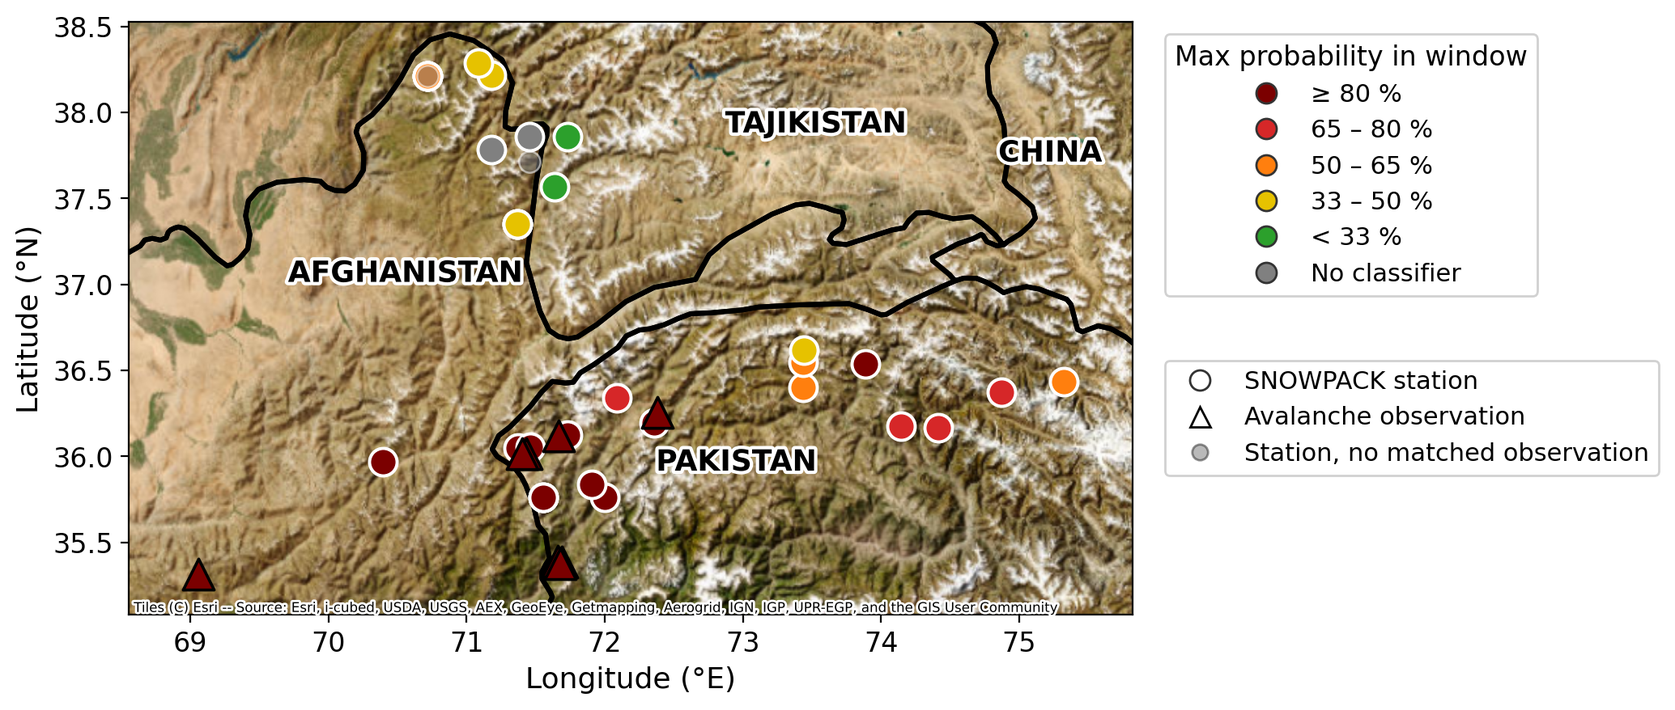
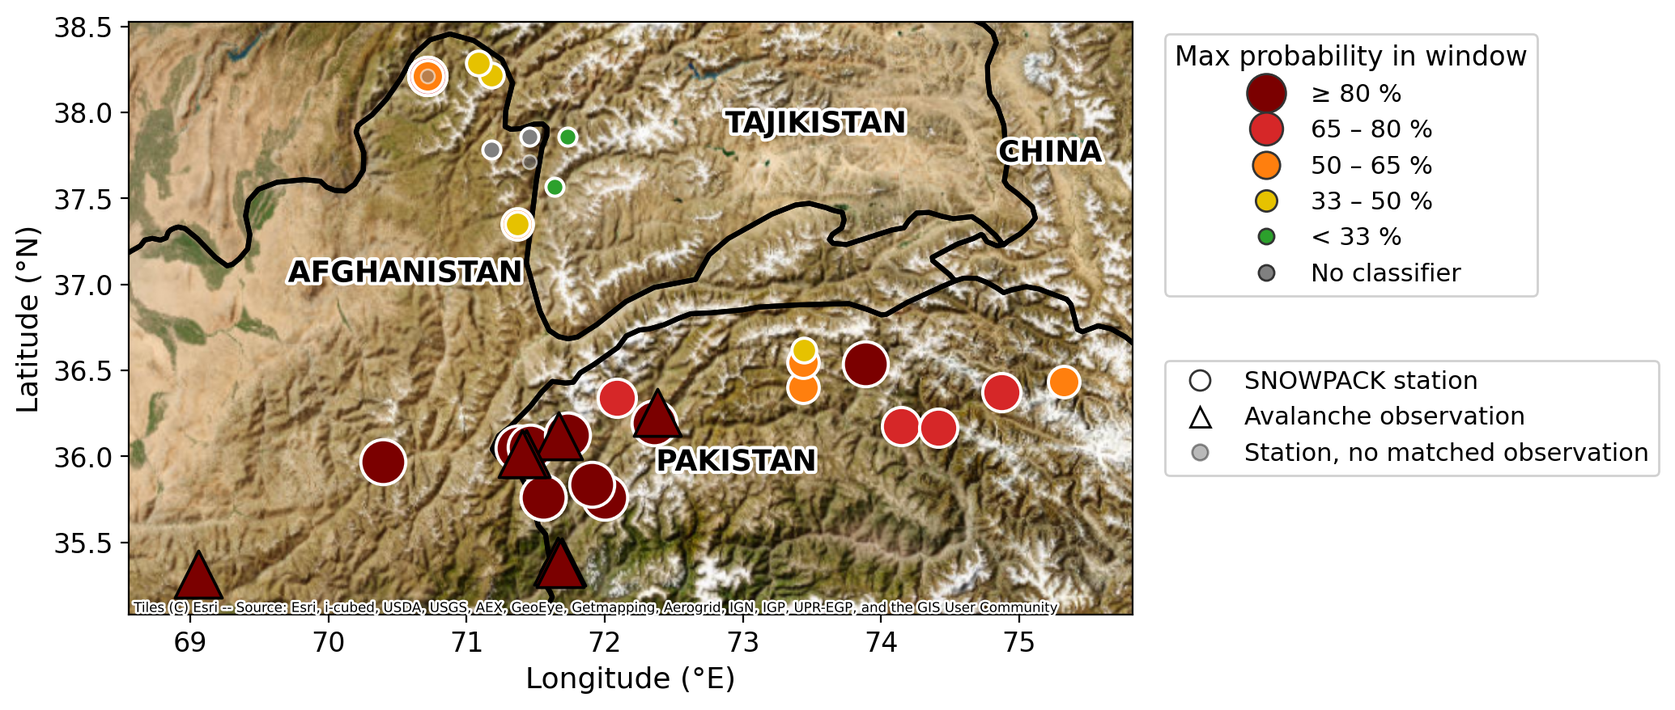
Revise ISSW paper, template class, and figures; add submission .tex

diff --git a/docs/paper/137_Itai Sheleg_Forecasting Avalanches in Data-Sparse Central Asia using Snowpack and Weather Modeling with Avalanche Observations.tex b/docs/paper/137_Itai Sheleg_Forecasting Avalanches in Data-Sparse Central Asia using Snowpack and Weather Modeling with Avalanche Observations.tex
@@ -1,0 +1,302 @@
+\DocumentMetadata{
+  lang = en,
+  tagging = on,
+  pdfstandard = ua-2
+}
+%%%%%%%%%%%%%%%%%%%%%%%%%%%%%%%%%%%%%%%%%%%%%%%%%%
+%
+% LaTeX Template for extended abstracts for the
+% ISSW 2026 in Whistler, Canada.  
+%  To meet accessibility Requirements this is a completly new template. The .cls file is therefore new and in the .tex file you wil find some slight adaptions of how to handle figures and tables 
+% Cheers Machtl 
+%
+%%%%%%%%%%%%%%%%%%%%%%%%%%%%%%%%%%%%%%%%%%%%%%%%%%
+%               * INSTRUCTIONS *
+%
+%           **** VERY IMPORTANT ****
+%
+%
+%  1 - Rename this file
+%  
+%  2 - Write your contribution
+%
+%  3 - Compile with: LuaLaTeX, Biber, LuaLaTeX, LuaLaTeX --> PDF/UA-2-compliant structure
+%
+%  4 - Follow instructions below and come to Whistler
+%%%%%%%%%%%%%%%%%%%%%%%%%%%%%%%%%%%%%%%%%%%%%%%%%%
+
+\documentclass{issw}
+
+\usepackage[base]{babel}
+\usepackage{graphicx}
+\usepackage{amsmath}
+\usepackage{booktabs}
+\usepackage{tagpdf}
+\tagpdfsetup{
+  activate-all            = true,
+  math/mathml/luamml/load = true,
+  math/alt/use            = true,
+  table/header-rows       = {1}
+}
+
+\addbibresource{references.bib}
+
+% skip= pins the package to issw.cls's own \parskip (4pt plus 1pt minus 1pt);
+% the package's default (.5\baselineskip plus 2pt) would widen every paragraph
+% gap beyond the template. Loading it still gives the tight list/bibliography
+% spacing (\topsep and \itemsep zeroed) that the class alone does not set.
+\usepackage[skip=4pt plus 1pt minus 1pt]{parskip}
+
+% Consistent feature-name formatting (matches Table 1 everywhere it's used)
+\newcommand{\HS}{\mathrm{HS}}
+\newcommand{\HNtf}{\mathrm{HN24}}
+\newcommand{\TAmax}{TA_{\mathrm{max}}}
+\newcommand{\Snmin}{Sn38_{\mathrm{min}}}
+\newcommand{\dlwl}{\texttt{depth\_lower\_wl}}
+
+% ================= TITLE, AUTHOR==================================================
+\title{FORECASTING AVALANCHES IN DATA-SPARSE CENTRAL ASIA USING \\
+SNOWPACK AND WEATHER MODELING WITH AVALANCHE OBSERVATIONS}
+
+\author[1]{Itai Sheleg\corref{complete\_address}}
+\author[2]{Doug Chabot}
+\author[3]{John Snook}
+\author[1]{Jaime Peters}
+\author[4]{Walter Steinkogler}
+\author[3]{Ron Simenhois}
+
+
+
+\address[1]{Lake County High School, Leadville, CO, USA}
+\address[2]{Latok, LLC, Bozeman, MT, USA}
+\address[3]{Colorado Avalanche Information Center, CO, USA}
+\address[4]{Wyssen Avalanche Control AG, Switzerland}
+
+\cortext[complete\_address]{
+Itai Sheleg, Lake County High School, \\
+Leadville, CO, USA,\\
+email: itai.sheleg@gmail.com}
+% ===================================================================
+
+\begin{document}
+\pagestyle{empty}
+
+% ==================== ABSTRACT ===============================================
+\begin{abstract}
+Avalanches in Central Asia, particularly in Afghanistan, Tajikistan, and Pakistan, are a persistent hazard, causing hundreds of fatalities in severe winters and routinely destroying homes, infrastructure, and livestock essential for survival. To address this risk, in 2015, Aga Khan Agency for Habitat established a remote avalanche forecasting program supported by external expertise.
+Following its implementation, it became clear that a primary constraint on forecasting capability is the limited availability of snowpack, weather, and avalanche observations, driven by both geographic remoteness and government restrictions on data sharing.
+We address this gap by developing a proof-of-concept framework that fuses heterogeneous, publicly available data sources to support avalanche forecasting in data-sparse regions. Specifically, we combine numerical weather prediction (NWP)-forced SNOWPACK simulations (4 km grid spacing) with opportunistically extracted avalanche observations from social media posts shared by local residents. This approach treats informal reports as weakly labeled observations, enabling the reconstruction of avalanche occurrence in the absence of systematic records.
+We compiled 69 valley-floor avalanche observations from social media and AKAH field logs across two winters, and matched each to the nearest SNOWPACK station sharing its predominant aspect, reconstructing the associated meteorological and snowpack conditions at 30 virtual stations. Five daily variables drive the model: total snow depth, 24-hour new snow, maximum air temperature ($\TAmax$), the whole-profile minimum natural stability index ($Sn38$), and the burial depth of the weakest layer. To distinguish avalanche from non-avalanche days, we fit a hierarchical Bayesian logistic regression that gives each station its own baseline avalanche rate while sharing the influence of the five variables across the network.
+Trained on 2024–2025 and evaluated on the unseen 2025–2026 season, the model ranks avalanche days above quiet ones (AUC-ROC 0.715), and \textit{its warnings are about seven times more precise than chance.} Total snow depth carries the most weight, followed by weak-layer burial depth, which lowers risk as it deepens. New snow and $\TAmax$ both raise risk, with warming weighing about as much as new-snow loading, suggesting that warm, likely rain-influenced storms are at least as important as loading in driving these events. \textit{Detection climbs with a station's accumulated history, from 56\% with one recorded avalanche to 100\% with three, counting events from any season rather than only the current winter.} At a fixed threshold, false alarms do not fall along that same curve, though four of the stations already meet an operational standard of roughly one false alarm per month.
+This work incorporates a novel data-fusion and weak-supervision framework for avalanche forecasting, integrating NWP-driven snowpack modeling with opportunistic, publicly sourced observations. However, this framework is constrained by a limited event dataset and a model chain that lacks rigorous, component-wise validation, introducing uncertainty in both inputs and predictions. As such, the framework is best interpreted as a decision-support tool rather than a fully autonomous forecasting system. Coupled with expert validation and interpretation, it provides a scalable pathway for developing operational guidance in regions where conventional data streams are sparse or unavailable.
+\end{abstract}
+
+\begin{keyword}
+Avalanche Forecasting, SNOWPACK, Bayesian Modeling, Central Asia
+\end{keyword}
+
+\maketitle
+% ===================================================================
+
+
+\section{INTRODUCTION}
+Avalanches are a severe and recurring hazard across the Hindu Kush, Pamir, Karakoram, and western Himalaya. A single 2012 avalanche cycle in Afghanistan, Pakistan, and Tajikistan killed more than 100 people \parencite{ChabotKaba2016}, motivating the Aga Khan Development Network and Aga Khan Agency for Habitat (AKAH) to build a community-based avalanche warning system around village-run weather monitoring posts, coordinated evacuation planning, and trained search-and-rescue teams. When a comparably severe cycle struck the same region in February 2023, 38 people died \parencite{Chabot2024}, a fraction of the 2012 toll attributed to the network built in the intervening years. Providing operational avalanche forecasts is a central component of these programs, yet the observational data that underpin modern forecasting are largely unavailable across the region.
+Modern avalanche forecasting relies on dense observational networks, including automated weather stations, snowpack observations, and systematic avalanche records. Across much of Central Asia, this infrastructure is largely absent, and the challenge has three components. Field snowpack observations are essentially absent. Automated weather stations are rare at avalanche-relevant elevations, and where they exist, cost constraints and government restrictions on cross-border data sharing often prevent their use in regional forecasting \parencite{Chabot2024}. Systematic records of avalanche occurrence needed to establish historical baselines and evaluate model performance are similarly lacking. Each limitation would significantly constrain an operational forecasting program; together, they render conventional forecasting approaches impractical.
+We combine three globally available data sources: numerical weather prediction (NWP) model output, satellite imagery, and avalanche events identified from social media and local news reports to test whether these limitations can be substantially mitigated. Systematic records of avalanche events in this region exist almost entirely outside peer-reviewed literature, in technical reports, news, and social media \parencite{Acharya2023}, making these sources not merely supplementary but the primary available record. This paper focuses on the NWP-driven snowpack modeling and observation components of the framework; satellite-derived inputs are part of the broader system architecture but fall outside the present evaluation.
+This paper presents the system architecture and a pilot deployment in Afghanistan, Pakistan, and Tajikistan. The operational network runs 1155 virtual SNOWPACK stations; the evaluation reported here uses the 30 stations matched to 69 avalanche observations compiled from AKAH's structured observation logs and social media reports. We evaluate how well the model separates avalanche days from quiet ones, whether that skill holds up in a season it has never seen, and whether the weights it learns are physically coherent, then discuss the steps required to transition the framework toward reliable operational forecasting in data-sparse regions worldwide.
+
+\section{DATA}
+\subsection{NWP Forcing and SNOWPACK Simulations}
+We implemented the Weather Research and Forecasting model (WRF) \parencite{SkamarockKlemp2008} over Central Asia in 2022 to produce winter weather forecasts. Initial and lateral boundary conditions come from the US National Weather Service Global Forecast System (GFS). We run a nested grid, a 12-km outer domain with a 4-km inner nest, and put out 7-day forecasts twice a day. Post-processing turns that into standard parameter imagery and point forecasts on a regional website. The first winter told us the forecasts were worth building on.
+The following season we added SNOWPACK \parencite{Lehning2002,Morin2020}, following the approach the Colorado Avalanche Information Center developed \parencite{SnookEtAl2022,Snook2016}. WRF writes meteorological output straight into SNOWPACK, which simulates layer-by-layer snowpack evolution at each grid point. The system builds profiles at every 4-km grid point above 3,500 m inside the forecast domain, updates them daily, and serves them on the same website, with full seasonal profiles available on demand.
+For this study, we pulled SNOWPACK output from 30 virtual stations that turned out to be nearest to at least one avalanche report across the Darvoz district of Tajikistan and northwest Pakistan. Each station carries a specific aspect (N, E, S, W, or flat) and elevation, so the network represents snowpack evolution tuned to slope exposure rather than one regional average. We ran two consecutive winters: 2024–2025 for training, 2025–2026 for evaluation. Sub-daily {\texttt{.smet}} files gave us the meteorological time series, and {\texttt{.pro}} files gave us per-layer stratigraphy at each timestep. Table \ref{tab:table_1} lists the five variables the model uses. Figure \ref{fig:study_area_map} shows the station network and a representative forecast window from 2025–2026.
+
+\begin{table*}[t]
+  \centering
+  \caption{The five model features, their SNOWPACK source, and physical role.}
+  \label{tab:table_1}
+  \begin{tabular}{lll}
+    \hline
+    \textbf{\textit{Feature}} & \textbf{\textit{Source}} & \textbf{\textit{Physical role}} \\
+    \hline
+    $\HS$ & SNOWPACK & Total snow depth: size / valley-reach potential \\
+    $\HNtf$ & NWP & 24-hour new snow: primary loading trigger \\
+    $\TAmax$ & NWP & Daily max air temperature: wet vs dry mechanism \\
+    $\Snmin$ & SNOWPACK & Whole-profile minimum stability index: weakest-layer strength \\
+    \dlwl & SNOWPACK & Weak-layer depth: proximity to ground / basal layer \\
+    \hline
+  \end{tabular}
+\end{table*}
+
+\begin{figure*}[ht]
+  \centering
+  \includegraphics[
+    width=0.85\textwidth,
+    alt={Satellite image of the study area spanning Tajikistan, northeast Afghanistan, and northwest Pakistan. Circles are SNOWPACK virtual stations colored and sized by modeled probability for the January 22-25, 2026 forecast window: small green markers are low probability, growing through gold and orange to the largest, dark-red markers at 80 percent or higher; triangles mark the eight avalanche reports from January 23, 2026, colored and sized the same way. A cluster of large dark-red stations and triangles appears in the southern group, coinciding with most of the reported events.}
+  ]{./figures/fig1_map.png}
+  \caption{Study area map with the January 23, 2026 event cycle selected. Triangles mark the valley-floor avalanche reports for that date; circles are SNOWPACK virtual stations with rings colored by modeled probability in the January 22–25 forecast window. The dark-red cluster ($\geq$80\%) coincides with the reported events, while stations without matching observations are shown faded.}
+  \label{fig:study_area_map}
+\end{figure*}
+
+\subsection{Avalanche Observations}
+AKAH collects avalanche reports and forwards them to the forecaster. Almost all of them come from locals' Facebook pages in Afghanistan and Pakistan, and off Instagram in Tajikistan. Most carry video or photographs showing how far the avalanche ran, which is more than we get from most formal reporting channels in the region.
+
+\begin{figure}[ht]
+  \centering
+  \includegraphics[
+    width=0.8\columnwidth,
+    alt={Ground-level photograph of avalanche debris filling a narrow rocky gully, taken looking up-path. Chunky white debris blocks cover the gully floor and lower banks in the foreground; bare rock walls converge toward a notch at the skyline, and no start zone is visible from this vantage.}
+  ]{./figures/fig1b_observation_photo.jpg}
+  \caption{A valley-floor avalanche photo of the kind local observers post to Facebook and Instagram and AKAH compiles into the observation dataset. The debris is visible, but the start zone is not. This is the gap this paper's start-zone matching (Section \ref{sec:obs-matching}) is built to close.}
+  \label{fig:observation_example}
+\end{figure}
+
+These posts give valley-floor runout locations, not start zones. Each has a date, an approximate location, and rough estimates of slope angle, aspect, and size, derived from the posts rather than measured. AKAH provided the initial notification of avalanche events, but every piece of observational data used here was pulled independently from publicly available posts. The combined set holds 69 observations: 26 from 2024–2025 and 43 from 2025–2026.
+We treat these as weakly labeled events. A post confirms that an avalanche reached the valley floor. It says nothing about the trigger, the release zone, or the state of the snowpack. More importantly, no post does not mean no avalanche. Our record is opportunistic and almost certainly incomplete, so some unknown number of real events sit in the data as quiet days.
+That is a positive-unlabeled problem \parencite{ElkanNoto2008}, and the practical consequence works in our favor. Any skill we report is a conservative floor, because some of the quiet days the model gets penalized for flagging probably did have avalanches nobody posted about. The supplementary technical report \parencite{ShelegEtAl2026} covers this in more detail, including why we apply no formal correction for it.
+
+\subsection{Observation-to-Station Matching}
+\label{sec:obs-matching}
+Valley-floor reports provide approximate runout locations rather than start zones. For each observation, the forecaster, who has regional terrain knowledge, worked out the likely start zone from valley geometry, known paths, and whatever context came with the report. We then matched each start zone to the nearest SNOWPACK station sharing the same predominant aspect (N, E, S, or W), so the simulation reflects the right solar radiation and wind loading regime.
+That hybrid step puts terrain knowledge where distance alone would fail. Two stations equidistant from a reported runout but facing opposite aspects can carry completely different snowpack histories. This matching introduces forecaster subjectivity and is not automatically reproducible. We consider that a feature rather than a gap. It is the mechanism through which terrain expertise enters the framework.
+
+\section{METHODS}
+\subsection{Feature Engineering}
+We aggregated sub-daily SNOWPACK output to one value per day. From the weather side we took daily maxima for total snow depth ($\HS$), 24-hour new snow ($\HNtf$), and air temperature ($\TAmax$). From the modeled profile, we split each timestep into an upper zone, everything buried shallower than 40\% of total depth, and a lower zone below. The upper zone is where storm slabs live; the lower zone is where persistent weak layers sit. Within each zone we took the minimum ${Sn38}$ stability index, plus the burial depth of the weakest layer in the lower zone.
+The 2024–2025 training set holds 35 positive days across the 13 stations with usable 2024–2025 SNOWPACK data. Anything larger would be modeling noise instead of signal. The five variables in Table \ref{tab:table_1}: $\HS$, $\HNtf$, $\TAmax$, $\Snmin$, and \dlwl\ are physically distinct and do not track each other closely.
+
+\subsection{Labeling Under Weak Supervision}
+An event day gets labeled positive, and so does the day before it, accounting for the one-day reporting lag inherent in social media and field log sources. Every other day is negative. That leaves roughly 0.7\% of days positive in the 2024–2025 training set, an imbalance worth remembering when reading the skill scores.
+Some stations had no valid zone features on positive days, usually early season with little snow down. Those fell back to weather alone ($\HS$, $\HNtf$, $\TAmax$), sacrificing snowpack structural information but preserving trainability.
+
+\subsection{Combining Station and Regional Data}
+We built one model that lets every station borrow from the rest of the region while keeping its own local signal \parencite{GelmanHill2007}. Each of the 13 stations with at least one recorded event holds its own baseline avalanche rate. The influence of the five variables is shared across the whole network.
+How much a station leans on itself versus the region is learned from the data, not set by us. A station with several observed events keeps mostly its own signal. A station with one event leans heavily on the regional average. That is the behavior you want from a sparse network: trust local history where there is enough of it, fall back on regional experience where there is not.
+We left stations with no recorded events out of training. In this region, an empty record more likely means nobody was watching than that nothing ran, and training on the opposite assumption teaches the model the wrong lesson. At prediction time, those stations are served by the regional pattern.
+This also gives us a confidence estimate on every prediction at no extra cost, which Section \ref{sec:model-uncertainty} describes. The model is a hierarchical, or multilevel, logistic regression, fit with PyMC \parencite{AbrilPla2023}.
+
+\subsection{Evaluation}
+We tested the model three ways:
+\begin{enumerate}
+  \item \textbf{Rolling per-station test.} For each station, we put its observed events in time order and asked whether the model warned before each one, using only what it knew beforehand. Each test trains on everything that came earlier at that station, pulling from either season, and tests on the next event. Training only looks backward, so no future information leaks in. This measures how much accumulated local history helps. It mixes seasons on purpose, so it is not a test of a brand-new year. We counted an event as detected if the highest predicted probability in the three days up to and including the event reached 50\%.
+  \item \textbf{Cross-season holdout.} We trained on 2024–2025 only and evaluated entirely on 2025–2026, so nothing from the test season ever reached training. This is the honest test of whether the model holds up in a year it has never seen. We report two scores. AUC-ROC measures how well the model ranks dangerous days above quiet ones, where 1.0 is perfect, and 0.5 is a coin flip. Average precision is the more useful of the two when real events are rare, and they are: about 2\% of station-days carry a positive label in the 2025–2026 evaluation season, versus 0.7\% in 2024–2025 training. That gap is season coverage, not a change in reporting; avalanches were recorded at all 30 matched stations in 2025–2026 but only 15 of 30 in 2024–2025, so more of the pooled 2025–2026 days sit near a reported event \parencite{SaitoRehmsmeier2015}.
+  \item \textbf{Event-level scoring.} For each test event, we took the model's highest probability in the three days before it as the warning score, then compared that against equal-length windows on quiet days at the same stations. This asks the question a forecaster cares about, whether a timely warning went out, rather than whether every single day got labeled correctly.
+\end{enumerate}
+
+\section{RESULTS}
+\subsection{Per-Station Performance and Learning Curve}
+We asked the practical question at each station: using only what the model knew before an avalanche ran, did it flag the day? Sixteen stations had enough history to test. Eight caught every event. Three caught about half. Five missed completely, and all five had exactly one prior event to learn from.
+The pattern inside that failure is the most useful thing we found (Table \ref{tab:table_2} and Figure \ref{fig:learning_curve}). \textit{With one logged event at a station, whichever season it came from, the model caught 56\% of the next ones. With two, 86\%.} With three, it caught all of them. Those counts are cumulative across the record rather than within a single winter, so an event logged in an earlier season still carries weight. Every added observation delivers a large, consistent gain, and the dataset sits on the steep part of that curve. The limiting factor here is not the model but the number of recorded avalanches. Three events at a station is roughly where we would start trusting it. Detection is only half the ledger: false alarms at a fixed threshold do not improve along the same curve, and the full accounting (threshold sweeps and per-station false alarm rates) is in the supplementary technical report \parencite{ShelegEtAl2026}.
+
+\begin{figure}[ht]
+  \centering
+  \includegraphics[
+    width=1.\columnwidth,
+    alt={Scatter plot of per-station event-window probability against number of prior training events at a station, counted across any season. Detected events are green circles and missed events are red X marks, so the two classes are distinguishable by both color and shape; a black dashed mean line rises from 0.48 at one prior event to 0.78 at two and 0.72 at three. A gray dashed line marks the 0.5 detection threshold that separates the two classes, and a blue dotted line marks the 0.15 median non-event probability, which most missed events sit closer to than to the threshold.}
+  ]{./figures/fig2_learning_curve.png}
+  \caption{Learning curve: detection rate and mean warning probability as a function of the number of prior observed events at a station (any season).}
+  \label{fig:learning_curve}
+\end{figure}
+
+\begin{table*}[t]
+  \centering
+  \caption{Detection rate improves steeply with each additional observed event.}
+  \label{tab:table_2}
+  \begin{tabular}{lll}
+    \hline
+    \textbf{\textit{Prior events at station (any season)}} & \textbf{\textit{Detection rate}} & \textbf{\textit{Mean warning probability}} \\
+    \hline
+    1 & 56\% & 0.48 \\
+    2 & 86\% & 0.78 \\
+    3 & 100\% & 0.72 \\
+    \hline
+  \end{tabular}
+\end{table*}
+
+\subsection{Cross-Season Performance}
+The harder test is whether the model holds up in a season it has never seen. We trained on 2024–2025 and evaluated on the 2025–2026 season's 37 unique station-day events (43 raw reports that season, six of which shared a station and date with another report and so collapsed into one event), with nothing from that winter in the training data. It ranked dangerous days above quiet ones with an AUC-ROC of 0.715, \textit{and its warnings landed about seven times more precisely than random guessing.}
+We also tried simpler setups: one model per station, one model for the whole region, and a blend of the two. The shared, hierarchical model beat all of them. A station with few logged events borrows the pattern from better-observed stations nearby while still keeping whatever local history it has. The full model comparison and statistical detail are available in the supplementary technical report \parencite{ShelegEtAl2026}.
+
+\subsection{What the Model Learned}
+The weights the model settled on are foundational rules every forecaster already knows (Figure \ref{fig:feature_importance}). Total snow depth dominates: a deep snowpack carries the volume and energy needed to reach the valley floor, and thin years do not produce these events.
+Weak-layer burial depth comes second and pulls the other way. The deeper a weak layer sits, the harder it is to trigger, so shallow weak layers drive the modeled risk up.
+New snow and warm temperatures both raise risk, and warming carries about as much weight as loading. The ${Sn38}$ stability index adds a smaller, secondary signal. These patterns hold across the region and align with what experienced forecasters expect from the terrain and climate in Central Asia.
+
+\begin{figure}[ht]
+  \centering
+  \includegraphics[
+    width=1.\columnwidth,
+    alt={Horizontal bar chart of standardized logistic-regression coefficients for the five model features. HS has the longest red (risk-increasing) bar, followed by TA_max and HN24; sn38_min is a short red bar; depth_lower_wl is the only blue (risk-decreasing) bar.}
+  ]{./figures/fig3_feature_importance.png}
+  \caption{Feature influence on predicted avalanche risk, with standardized model coefficients as a horizontal bar chart. Red bars increase risk; blue bars decrease risk; longer bars mean stronger influence.}
+  \label{fig:feature_importance}
+\end{figure}
+
+\subsection{Knowing What the Model Doesn't Know}
+\label{sec:model-uncertainty}
+A key advantage of the shared, hierarchical approach is that it reports not just a probability, but how confident it is in that probability. Where a station has several logged events, the estimate is tight. Where it has none, the model falls back on the regional average and flags uncertainty in the prediction.
+A high probability at a station with history behind it is a strong signal with confidence. The same number at a station with nothing behind it is a reason to prompt extra caution and expert judgment rather than automated action.
+
+\subsection{Operational Readiness}
+We set the bar at roughly one false alarm a month, no more than 10\% of non-event days, since a forecast nobody believes is worse than no forecast at all. Four stations are operationally ready today. One threw zero false alarms across the entire 2025–2026 season; two more flagged fewer than three days all winter.
+Three stations sit in a marginal band. Those are usable if a forecaster reviews every alert before it goes out, which is what we currently do.
+The rest are not ready, almost always because they have too few logged events to set a threshold on. Another season of reports will move stations from not-ready to marginal or ready.
+
+\subsection{Case Study: Model Output for a Known Event}
+
+\begin{figure*}[ht]
+  \centering
+  \includegraphics[
+    width=0.75\textwidth,
+    alt={Avalanche probability chart for station 160942 (east-facing) over the 2025-26 season, with shaded operational threshold bands at 33, 50, 65, and 80 percent. A smaller early-February spike reaches about 20 percent; outside these spikes, probability mostly holds below 10 percent.}
+  ]{./figures/fig4_stability_160942.png}
+  \caption{Per-station avalanche probability for station 160942\_res (east-facing station) over the 2025–2026 season, with operational threshold bands. The model assigns probability $\sim$1.00 in the highlighted three-day window around the observed January 23 event, with markedly lower probabilities on surrounding non-event days.}
+  \label{fig:case_study}
+\end{figure*}
+
+Figure \ref{fig:case_study} shows the best station through the 2025–2026 season. The probability spikes right before the January 23 avalanche cycle, then drops back within days. A narrow, time-specific signal like this is something a forecaster can act on, versus a persistent high-risk background that gets ignored. This chart is what field staff and forecasters actually look at.
+
+\section{DISCUSSION}
+\subsection{Strong Signal from Sparse Data}
+The system pulls a lot of signal out of very little data. We held it to five common variables: snow depth, new snow, air temperature, weak-layer strength, and burial depth. That keeps it tied to real avalanche triggers instead of chasing noise. It also means a forecaster can see the reasoning: the logistic-regression coefficients show exactly which variable pushes the probability up on a given day, so a forecaster can weigh that against their own expertise rather than just trusting the number.
+The model also improves as it accumulates local observations. It already performs well on the small training pool available today, and every additional observation makes a measurable improvement.
+
+\subsection{A Chain of Unverified Assumptions}
+Building a forecasting tool for a data-sparse region forces a chain of assumptions, and each link carries risk that compounds down the chain. With no weather stations at avalanche elevation, we feed SNOWPACK forecast weather instead of measured weather. Errors in that forecast land in the simulated snowpack, where they stack up layer by layer into a stability estimate that can drift a long way from what is actually happening. We have no surface stations to catch that drift and no pits to check the profile against. The modeled stratigraphy is a hypothesis, not an observation.
+
+Reading the warming signal has its own catch. Our virtual stations sit higher and colder than the actual start zones, so we cannot see precipitation type where an avalanche actually releases. Checking the model's warm-flagged events against traced start-zone elevation and a standard lapse rate backs up a rain-influenced release for most of them, but a bare station-level threshold on its own got at least one of them wrong. Thus, a physically sensible coefficient still needs terrain-aware interpretation before it becomes an operational claim. The full methodology and per-event results are in the supplementary technical report \parencite{ShelegEtAl2026}.
+
+The reports carry their own bias. We only know about avalanches somebody saw. A path that runs in an empty valley leaves no record, and the model logs that day as quiet. The record leans toward valleys with people and roads in them, and undersamples remote terrain.
+
+\subsection{Decision Support, Not a Replacement}
+These gaps set a hard limit on how forecasters should use the tool. It informs a person's decision; it does not make it. We built it as a second opinion for a forecaster, not a replacement for one. Expert judgment is not an afterthought bolted onto the output: it is what turns a valley-floor report into a start zone in the first place, the step every observation passes through before it ever reaches the model. The model scales that judgment; it does not replace it.
+
+\subsection{Future Work}
+Four things would close the biggest gaps, and the first one costs the least.
+
+\textbf{A standing avalanche log.} The single highest-value improvement available to this framework is not an algorithm or an instrument. It is a written record of avalanches that AKAH staff already witness. Our learning curve puts a number on it: every station that accumulated three logged events detected all of its subsequent avalanches, while every station that missed completely had exactly one event to learn from. Moving a station from one record to three bought more skill than any modeling change we tested, and it requires only a date, an approximate location, and rough size, aspect, and elevation, captured on a form as staff encounter avalanches during their normal work. No new sensors, no field campaign, and no additional budget line stand between AKAH and that gain. We therefore recommend that AKAH and its partner organizations treat routine avalanche logging as operational infrastructure and sustain it season after season. Each additional winter of records lifts more stations past the three-event threshold, and the benefit compounds, because every event logged this year sharpens each forecast the model issues in the years that follow.
+
+\textbf{Satellite detection.} The observation bias is the worst weakness we have, and remote sensing is the direct fix. Synthetic-aperture radar (SAR) sees avalanche debris through cloud and darkness, so it catches the paths that run in remote, unpopulated drainages that no observer would ever report. Capturing these detections into the training corpus would enlarge the record and lessen the bias. Just as important, it would let us hold model output against activity somebody actually measured rather than activity we simulated.
+
+\textbf{A regional picture.} Point probabilities at a handful of stations do not tell you what the snowpack is doing across the whole range. We want to overlay satellite detections and human reports onto the terrain so a forecaster can see at a glance where things have been failing regionally, then read each station's probability in that wider context.
+
+\textbf{Runout modeling.} Right now we match a report back to a start zone and stop there. Coupling the stability output to a flow and runout model, building directly on the terrain-tracing already in the pipeline, would let the system reason about individual paths: which ones can reach the road, which ones can reach the village, and under what loading. That turns a per-station probability into a spatially explicit hazard estimate.
+
+\section{CONCLUSIONS}
+We ran NWP-forced SNOWPACK and matched the output against avalanche reports locals posted to Facebook and Instagram. In countries with no weather stations at start-zone elevation and nobody digging pits, that gives a forecaster something to work with. Trained on 2024–2025 and tested on 2025–2026, \textit{the model put dangerous days above quiet ones and flagged them seven times more precisely than chance.} Four stations already meet an operational false-alarm standard.
+
+What it learned makes physical sense. Deep snow drives valley-floor runouts, shallow weak layers raise the odds of triggering an avalanche, and warming carries about the same weight as new snow. Since our stations sit higher and colder, we can't see precipitation type at the actual start zones. Since warm-signal events needed less total snowfall to trigger an avalanche than the cold ones did, we assume that these events are consistent with rain-on-snow, and since rain loads the slab and weakens it at the same time, it takes less of it to go. None of this is checked against actual snowpack observations, so every pattern here is a physically sensible hypothesis, not a proven one. But a model with no physical grounding wouldn't land on the mechanisms forecasters already trust by chance.
+
+The fastest way to improve isn't a different algorithm. It is more logged events. \textit{Detection went from just over half to nearly certain between one and three historical avalanche events at a station.} Every season AKAH keeps logging avalanches is the cheapest upgrade this framework gets, cheaper than any sensor, any satellite tally, and any change of algorithm, and it is the only one that costs nothing to start. And because the model reports its own confidence, a high probability at a station with several logged events is a real signal ready to alert a forecaster; the same number at a station with no local history is a reason to lean on experience and terrain judgment instead.
+
+We view this framework as a decision-support layer whose reach grows with every observation added, and as a template for avalanche forecasting in data-sparse mountain regions worldwide.
+
+
+\phantomsection
+\addcontentsline{toc}{section}{ACKNOWLEDGEMENTS}
+\section*{ACKNOWLEDGEMENTS}
+We want to thank the American Avalanche Association for supporting this work through the ISSW 2026 Young Professional Scholarship. We are also indebted to the dedicated work of AKAH country-level staff.
+
+\printbibliography[title={REFERENCES}]
+
+\end{document}

diff --git a/docs/paper/central_asia_avalanche_issw2026.tex b/docs/paper/central_asia_avalanche_issw2026.tex
@@ -35,7 +35,8 @@
 \tagpdfsetup{
   activate-all            = true,
   math/mathml/luamml/load = true,
-  math/alt/use            = true
+  math/alt/use            = true,
+  table/header-rows       = {1}
 }
 
 \addbibresource{references.bib}
@@ -54,8 +55,8 @@
 \newcommand{\dlwl}{\texttt{depth\_lower\_wl}}
 
 % ================= TITLE, AUTHOR==================================================
-\title{Forecasting Avalanches in Data-Sparse Central Asia Using \\
-Snowpack and Weather Modeling with Avalanche Observations}
+\title{FORECASTING AVALANCHES IN DATA-SPARSE CENTRAL ASIA USING \\
+SNOWPACK AND WEATHER MODELING WITH AVALANCHE OBSERVATIONS}
 
 \author[1]{Itai Sheleg\corref{complete\_address}}
 \author[2]{Doug Chabot}
@@ -78,6 +79,7 @@ email: itai.sheleg@gmail.com}
 % ===================================================================
 
 \begin{document}
+\pagestyle{empty}
 
 % ==================== ABSTRACT ===============================================
 \begin{abstract}
@@ -130,7 +132,7 @@ For this study, we pulled SNOWPACK output from 30 virtual stations that turned o
   \centering
   \includegraphics[
     width=0.85\textwidth,
-    alt={Satellite image of the study area spanning Tajikistan, northeast Afghanistan, and northwest Pakistan. Circles are SNOWPACK virtual stations colored by modeled probability for the January 22-25, 2026 forecast window, from green (low) through gold and orange to dark red (at least 80 percent); triangles mark the eight avalanche reports from January 23, 2026, colored the same way. A cluster of dark-red stations and triangles appears in the southern group, coinciding with most of the reported events.}
+    alt={Satellite image of the study area spanning Tajikistan, northeast Afghanistan, and northwest Pakistan. Circles are SNOWPACK virtual stations colored and sized by modeled probability for the January 22-25, 2026 forecast window: small green markers are low probability, growing through gold and orange to the largest, dark-red markers at 80 percent or higher; triangles mark the eight avalanche reports from January 23, 2026, colored and sized the same way. A cluster of large dark-red stations and triangles appears in the southern group, coinciding with most of the reported events.}
   ]{./figures/fig1_map.png}
   \caption{Study area map with the January 23, 2026 event cycle selected. Triangles mark the valley-floor avalanche reports for that date; circles are SNOWPACK virtual stations with rings colored by modeled probability in the January 22–25 forecast window. The dark-red cluster ($\geq$80\%) coincides with the reported events, while stations without matching observations are shown faded.}
   \label{fig:study_area_map}
@@ -190,7 +192,7 @@ The pattern inside that failure is the most useful thing we found (Table \ref{ta
   \centering
   \includegraphics[
     width=1.\columnwidth,
-    alt={Scatter plot of per-station event-window probability against number of prior training events at a station, counted across any season. Detected events are green circles and missed events are red X marks, so the two classes are distinguishable by both color and shape; a black dashed mean line rises from 0.48 at one prior event to 0.78 at two and 0.72 at three.}
+    alt={Scatter plot of per-station event-window probability against number of prior training events at a station, counted across any season. Detected events are green circles and missed events are red X marks, so the two classes are distinguishable by both color and shape; a black dashed mean line rises from 0.48 at one prior event to 0.78 at two and 0.72 at three. A gray dashed line marks the 0.5 detection threshold that separates the two classes, and a blue dotted line marks the 0.15 median non-event probability, which most missed events sit closer to than to the threshold.}
   ]{./figures/fig2_learning_curve.png}
   \caption{Learning curve: detection rate and mean warning probability as a function of the number of prior observed events at a station (any season).}
   \label{fig:learning_curve}
@@ -246,9 +248,9 @@ The rest are not ready, almost always because they have too few logged events to
   \centering
   \includegraphics[
     width=0.75\textwidth,
-    alt={Avalanche probability chart for station 160942 (east-facing) over the 2025-26 season, with operational threshold bands. Probability peaks near 1.00 in the highlighted three-day window around the January 23 event, and stays well below the 33 percent threshold on most other days.}
+    alt={Avalanche probability chart for station 160942 (east-facing) over the 2025-26 season, with shaded operational threshold bands at 33, 50, 65, and 80 percent. A smaller early-February spike reaches about 20 percent; outside these spikes, probability mostly holds below 10 percent.}
   ]{./figures/fig4_stability_160942.png}
-  \caption{Per-station avalanche probability for station 160942\_res (east-facing, best-performing station) over the 2025–2026 season, with operational threshold bands. The model assigns probability $\sim$1.00 in the highlighted three-day window around the observed January 23 event, with markedly lower probabilities on surrounding non-event days.}
+  \caption{Per-station avalanche probability for station 160942\_res (east-facing station) over the 2025–2026 season, with operational threshold bands. The model assigns probability $\sim$1.00 in the highlighted three-day window around the observed January 23 event, with markedly lower probabilities on surrounding non-event days.}
   \label{fig:case_study}
 \end{figure*}
 

diff --git a/docs/paper/central_asia_avalanche_issw2026.md b/docs/paper/central_asia_avalanche_issw2026.md
@@ -59,7 +59,7 @@ For this study, we pulled SNOWPACK output from 30 virtual stations that turned o
 | Sn38_min | SNOWPACK | Whole-profile minimum stability index: weakest-layer strength |
 | depth_lower_wl | SNOWPACK | Weak-layer depth: proximity to ground / basal layer |
 
-![Satellite image of the study area spanning Tajikistan, northeast Afghanistan, and northwest Pakistan. Circles are SNOWPACK virtual stations colored by modeled probability for the January 22-25, 2026 forecast window, from green (low) through gold and orange to dark red (at least 80 percent); triangles mark the eight avalanche reports from January 23, 2026, colored the same way. A cluster of dark-red stations and triangles appears in the southern group, coinciding with most of the reported events.](./figures/fig1_map.png)
+![Satellite image of the study area spanning Tajikistan, northeast Afghanistan, and northwest Pakistan. Circles are SNOWPACK virtual stations colored and sized by modeled probability for the January 22-25, 2026 forecast window: small green markers are low probability, growing through gold and orange to the largest, dark-red markers at 80 percent or higher; triangles mark the eight avalanche reports from January 23, 2026, colored and sized the same way. A cluster of large dark-red stations and triangles appears in the southern group, coinciding with most of the reported events.](./figures/fig1_map.png)
 
 **Figure 1.** Study area map with the January 23, 2026 event cycle selected. Triangles mark the valley-floor avalanche reports for that date; circles are SNOWPACK virtual stations with rings colored by modeled probability in the January 22–25 forecast window. The dark-red cluster (≥80%) coincides with the reported events, while stations without matching observations are shown faded.
 
